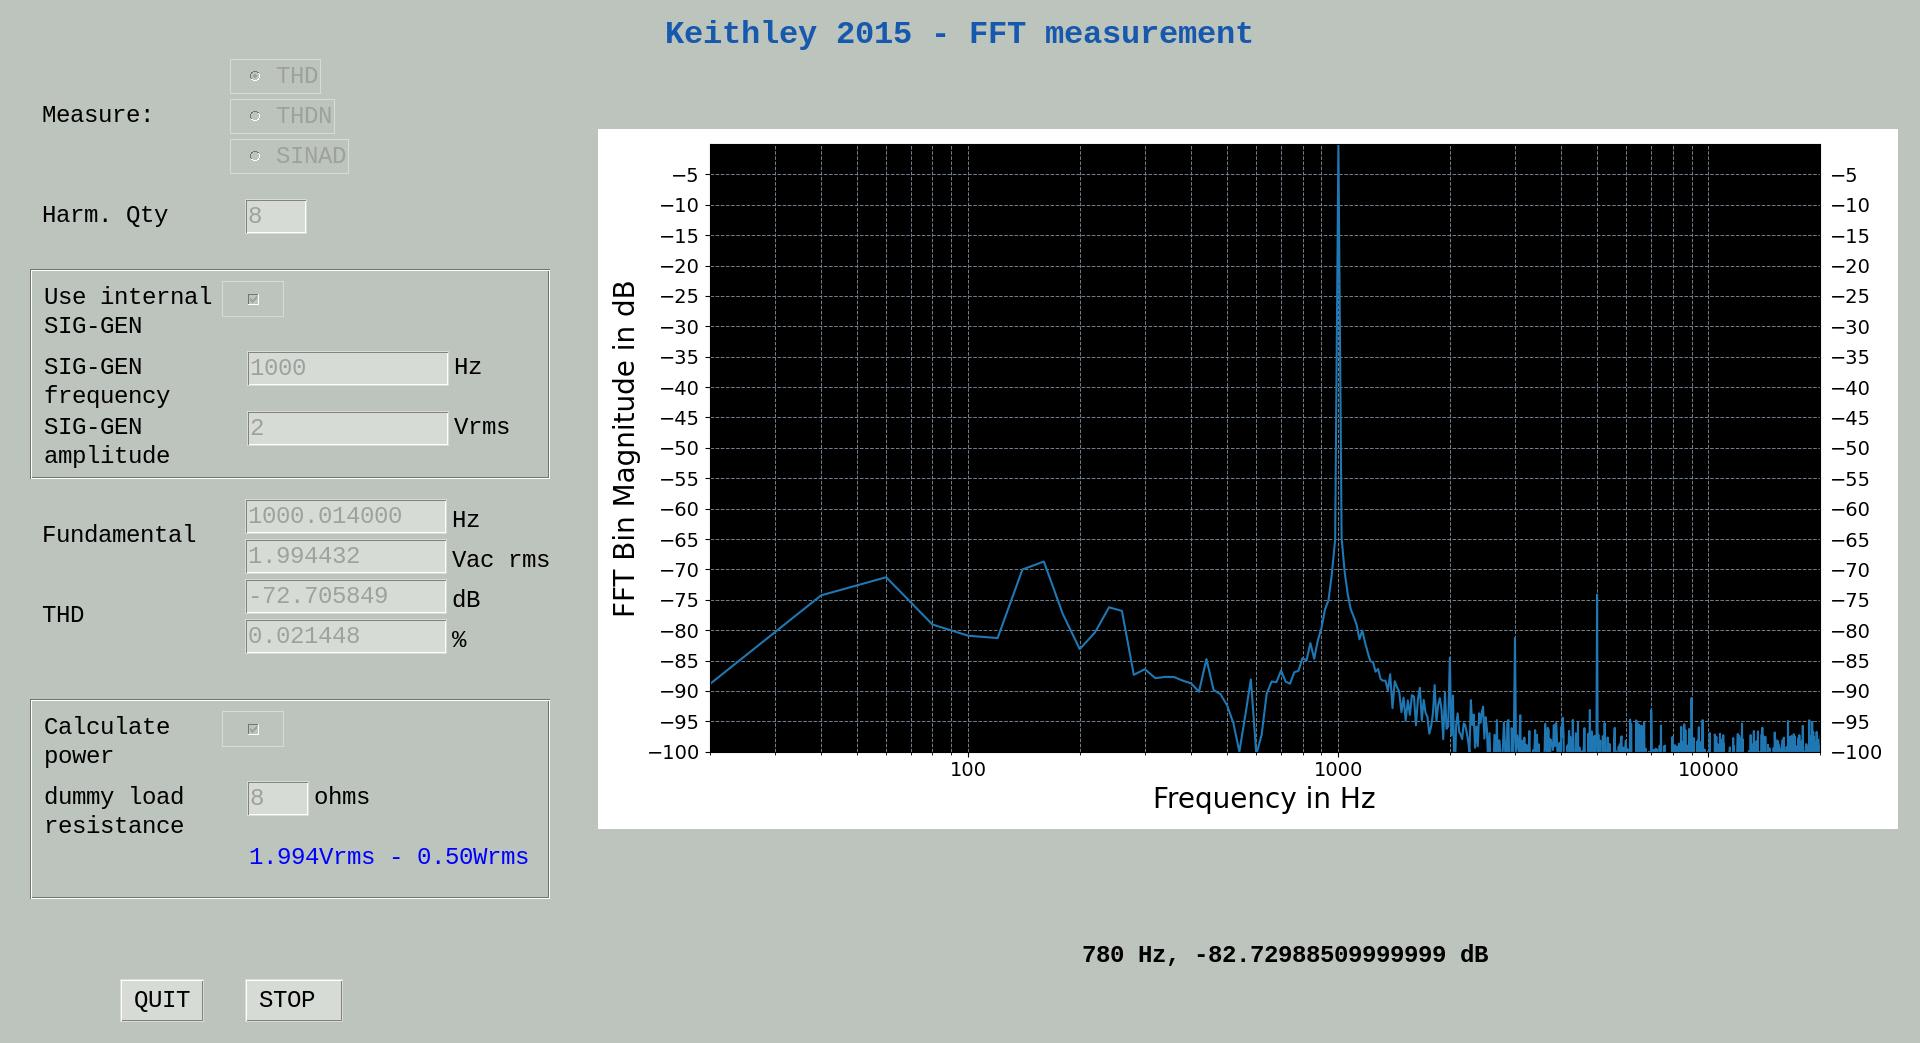
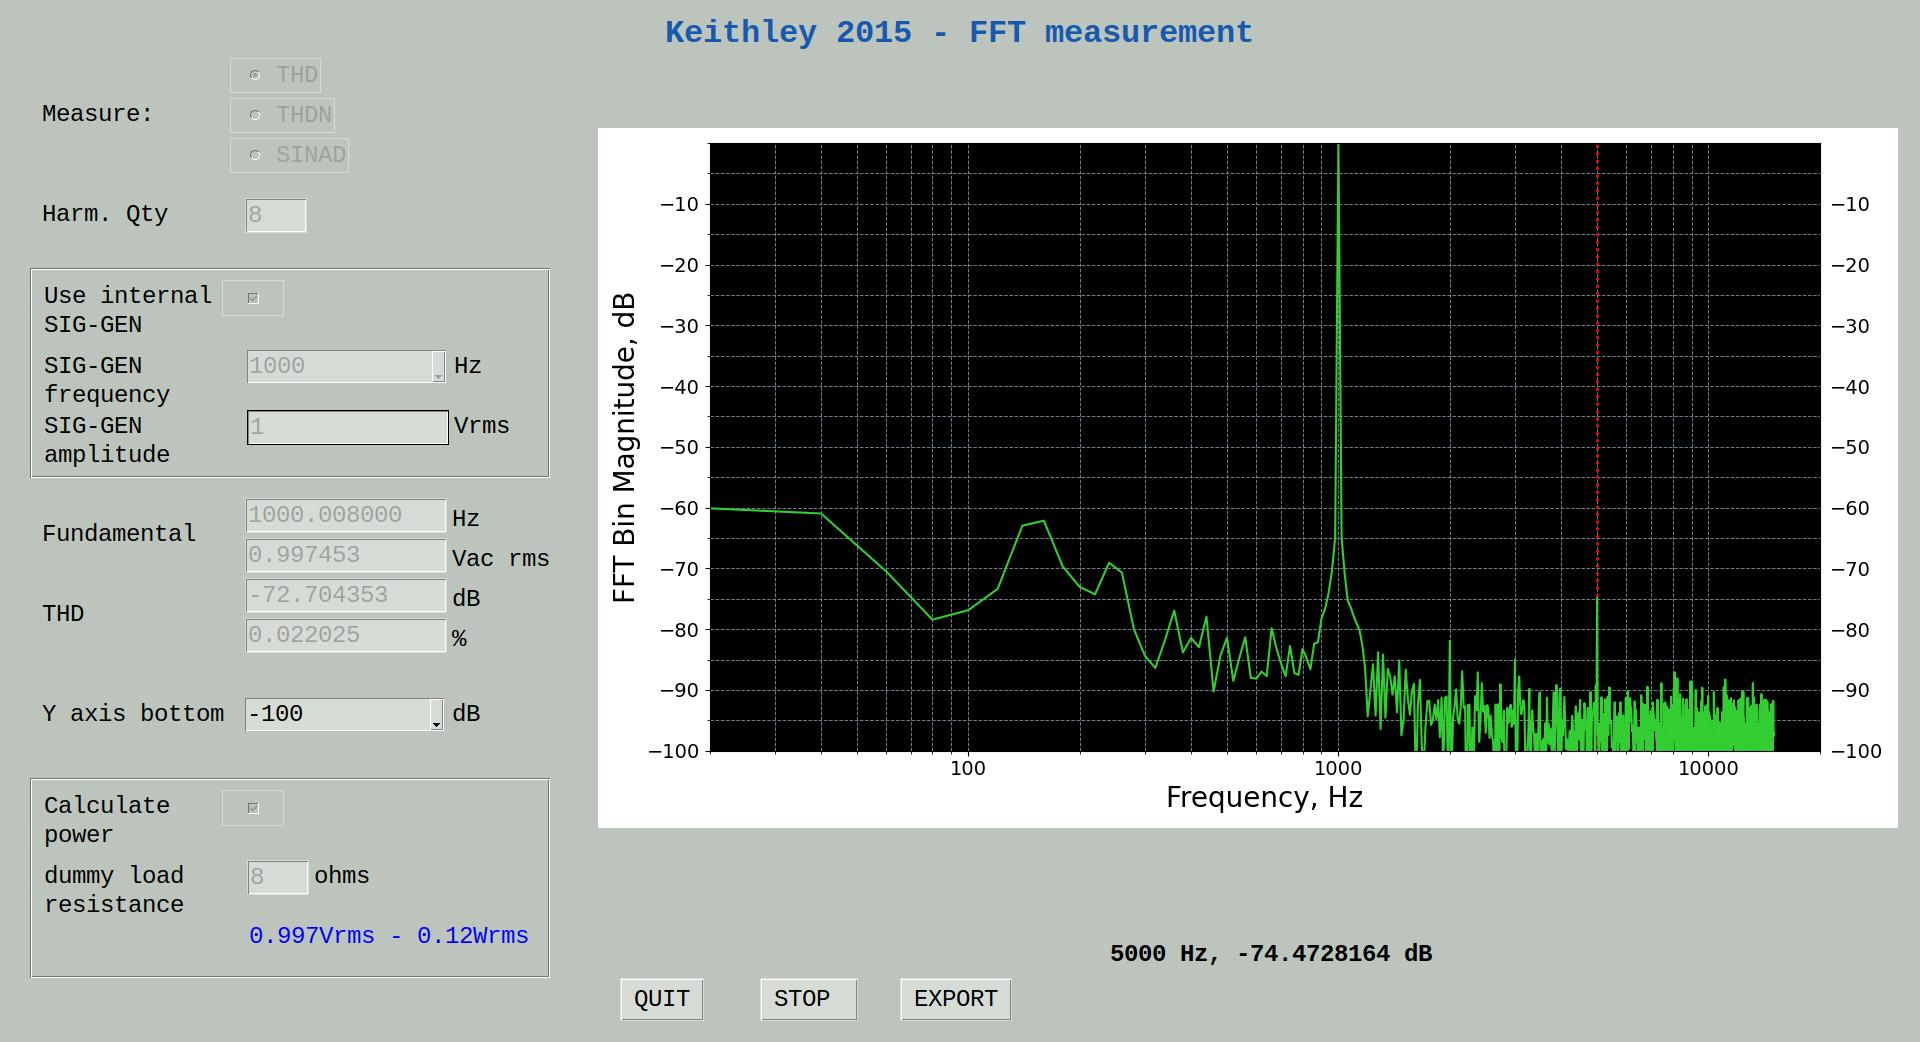
FFT cursor

diff --git a/fft.py b/fft.py
@@ -31,8 +31,8 @@ my RS232 times are:
 """
 
 # Some settings
-SIM = 1 # do not interact with equipment, just sim data
-DEBUG = 1 # print debug data on terminal
+SIM = 0 # do not interact with equipment, just sim data
+DEBUG = 0 # print debug data on terminal
 DISPLAY = 0 # display on or off
 UPDATE_INTERVAL= 1 # only used on sim.
 
@@ -87,6 +87,9 @@ class mclass:
         # FFT data for plot
         self.x1 = []
         self.y1 = []
+        if SIM:
+            self.x1 = [20, 50, 100, 200, 500, 900, 1000, 1060, 1080, 2000, 5000, 7500, 10000, 20000]
+            self.y1 = [-80, -70, -60, -82, -56, -75, 0, -70, -65, -70, -85, -82, -92, -75]
 
         #setup UI
         self.window['bg'] = 'silver'
@@ -207,10 +210,12 @@ class mclass:
         self.but_export = Button(window, text="EXPORT", command=self.export, font=('Courier New', 18))
         self.but_export.place(x=900, y=980)
 
-        # harmonic details upon click
+        # label for cursor location
         self.str_harm_details = StringVar()
         self.lbl_harm_details = Label(window, textvariable=self.str_harm_details, font=('Courier New', 18, 'bold'), background=self.window['bg'])
         self.lbl_harm_details.place(x = 1080, y = 940)
+        self.vline = None
+        self.plotline = None
 
         #focus
         self.etr_harm_qty.icursor(1)
@@ -378,8 +383,6 @@ class mclass:
             self.str_perc.set(new_textperc)
             self.fundamental_vrms = float(new_textVac)
             self.fundamental_freq = new_textHz
-            self.x1 = [20, 50, 100, 200, 500, 900, 1000, 1080, 2000, 5000, 10000, 20000]
-            self.y1 = [-80, -70, -60, -82, -56, -75, 0, -70, -70, -85, -92, -75]
         else:
 
             self.setup_thd_measurement()
@@ -538,8 +541,9 @@ class mclass:
         Tk().quit()
 
     def change_state(self):
-        while (self.avoid_exit):
-            self.fig.canvas.draw()
+        #while (self.avoid_exit):
+        #    self.fig.canvas.draw_idle()
+            #self.fig.canvas.draw()
 
         if self.running == True:
             if not SIM and self.chk_SIGGEN_var.get() == 1:
@@ -554,7 +558,6 @@ class mclass:
             self.rad_thd.config(state = 'normal')
             self.rad_thdn.config(state = 'normal')
             self.rad_sinad.config(state = 'normal')
-            #self.etr_SIGGEN_freq.config(state = 'normal')
             self.cmb_SIGGEN_freq.config(state = 'readonly')
             self.etr_SIGGEN_amp.config(state = 'normal')
             self.etr_resistance.config(state = 'normal')
@@ -571,13 +574,13 @@ class mclass:
             self.chk_SIGGEN.config(state = 'disabled')
             self.chk_power.config(state = 'disabled')
             self.rad_thd.config(state = 'disabled')
-            #self.etr_SIGGEN_freq.config(state = 'disabled')
             self.cmb_SIGGEN_freq.config(state = 'disabled')
             self.etr_SIGGEN_amp.config(state = 'disabled')
             self.rad_thdn.config(state = 'disabled')
             self.rad_sinad.config(state = 'disabled')
             self.etr_resistance.config(state = 'disabled')
             self.replot_thread()
+            self.measure_thread()
 
     def print_details(self, event):
         if not len(self.x1): return
@@ -588,11 +591,32 @@ class mclass:
             #y = format(event.ydata, '.2f')
 
             #show closest value of data according to cursor position
-            x = min(self.x1, key=lambda x:abs(x-event.xdata))
-            x_pos = self.x1.index(x)
+            xval = min(self.x1, key=lambda xval:abs(xval-event.xdata))
+            x_pos = self.x1.index(xval)
             y = self.y1[x_pos]
 
-            self.str_harm_details.set(str(x).rjust(6, " ") + " Hz" + ', ' + str(y).rjust(4, " ") + " dB")
+            self.str_harm_details.set(str(xval).rjust(6, " ") + " Hz" + ', ' + str(y).rjust(4, " ") + " dB")
+
+            ax = self.fig.get_axes()[0]
+
+            if self.vline is not None:
+                self.vline.remove()
+
+            self.vline = ax.axvline(x=xval, color='red', ls=':', lw=2)
+
+            #try:
+                #self.fig.canvas.draw_idle()
+            #    self.fig.canvas.draw()
+            #    self.fig.canvas.flush_events()
+            #except:
+            #    time.sleep(1)
+
+            #window.after(500, self.fig.canvas.draw())
+            #ax.figure.canvas.draw()
+            #fig = plt.figure()
+            #fig.canvas.flush_events()
+            #plt.pause(0.000000000001)
+            #self.fig.canvas.draw()
 
     def plot(self):
         self.fig, ax = plt.subplots(figsize=(13, 7))
@@ -601,7 +625,11 @@ class mclass:
         ax.set_xlabel('Frequency, Hz', fontsize=20, loc='center')
         ax.set_xticks([20,50,100,200,500,1000,2000,5000,10000,20000], ["20", "50", "100", "200", "500", "1K", "2K", "5K", "10K", "20K"])
         ax.set_xlim([20, 20000])
-        ax.semilogx(self.x1, self.y1, '-', color='limegreen')
+
+        fig = plt.figure()
+        fig.canvas.draw()
+        self.plotdata = ax.semilogx(self.x1, self.y1, '-', color='limegreen')
+        self.plotline = ax.lines[len(ax.lines)-1]
 
         ax.set_facecolor('xkcd:black')
         ax.grid(which="both", axis='both', color='slategray', linestyle='--', linewidth=0.7)
@@ -617,6 +645,7 @@ class mclass:
         self.plot_packed = 1
         canvas.mpl_connect('motion_notify_event', self.print_details)
         canvas.draw()
+        canvas.flush_events()
 
     def replot(self):
         #if SIM:
@@ -624,16 +653,30 @@ class mclass:
             #end of data sim
 
         #now replot
-        self.fig.tight_layout()
+        try:
+            self.fig.tight_layout()
+        except:
+            pass
         ax = self.fig.get_axes()[0]
-        ax.clear()         # clear axes from previous plot !!!!
-        ax.set_ylabel('FFT Bin Magnitude, dB', fontsize=20, loc='center')
-        ax.set_xlabel('Frequency, Hz', fontsize=20, loc='center')
-        ax.set_xticks([20,50,100,200,500,1000,2000,5000,10000,20000], ["20", "50", "100", "200", "500", "1K", "2K", "5K", "10K", "20K"])
-        ax.set_xlim([20, 20000])
+
+        #ax.lines.pop(0) #remove first line from graph insted of clearing
+        if self.plotline is not None:
+            try:
+                ax.lines.pop(ax.lines.index(self.plotline))
+            except:
+                print(ax.lines.index(self.plotline))
+                pass
+
+        #for line in ax.lines: ax.lines.pop(0)
+        #ax.clear()         # clear axes from previous plot !!!!
+        #ax.set_ylabel('FFT Bin Magnitude, dB', fontsize=20, loc='center')
+        #ax.set_xlabel('Frequency, Hz', fontsize=20, loc='center')
+        #ax.set_xticks([20,50,100,200,500,1000,2000,5000,10000,20000], ["20", "50", "100", "200", "500", "1K", "2K", "5K", "10K", "20K"])
+        #ax.set_xlim([20, 20000])
         ax.semilogx(self.x1, self.y1, '-', color='limegreen')
+        self.plotline = ax.lines[len(ax.lines)-1]
         #ax.grid(color = 'slategray', linestyle = '--', linewidth = 0.5, which='minor')
-        ax.set_facecolor('xkcd:black')
+        #ax.set_facecolor('xkcd:black')
         ax.grid(which="both", axis='both', color='slategray', linestyle='--', linewidth=0.7)
         ax.yaxis.set_ticks(np.arange(int(self.str_ybottom.get()), 0, 10), fontsize=20) # la escala del eje Y cada 0.5 entre 0 y 5
         ax.tick_params(labeltop=False, labelright=True,  labelsize=14)
@@ -641,8 +684,16 @@ class mclass:
         ax.set_ylim([int(self.str_ybottom.get()), 0])
         ax.yaxis.set_minor_locator(AutoMinorLocator(2))
         ax.xaxis.set_major_formatter(ScalarFormatter())
-        self.fig.canvas.mpl_connect('motion_notify_event', self.print_details)
+
+        #fig = plt.figure()
+        #fig.canvas.mpl_connect('motion_notify_event', self.print_details)
+        #fig.canvas.draw()
+        #fig.canvas.flush_events()
         self.fig.canvas.draw()
+        #self.fig.canvas.draw()
+        #window.after(50, ax.figure.canvas.draw())
+        ax.figure.canvas.flush_events()
+        #ax.figure.canvas.draw_idle()
 
     def export(self):
         if not len(self.x1):
@@ -652,21 +703,29 @@ class mclass:
             pd.DataFrame(dict).to_csv('fft.csv', index=False)
             messagebox.showinfo("Export", "Export completed - %s" % 'fft.csv')
 
+    def _measure_thread(self):
+        while self.running:
+            if DEBUG: print("calculate power");
+            self.measure_vca()
+            if DEBUG: print("remeasuring THD");
+            self.measure_thd() #and get fft bins
+
     def _replot_thread(self):
         if DEBUG: print("THD replot thread running");
 
         while self.running:
-            if DEBUG: print("calculate power");
-            self.measure_vca()
-
-            if DEBUG: print("remeasuring THD");
-            self.measure_thd() #and get fft bins
+            #if DEBUG: print("calculate power");
+            #self.measure_vca()
+            #if DEBUG: print("remeasuring THD");
+            #self.measure_thd() #and get fft bins
 
             if DEBUG: print("re plotting")
             self.replot()
 
             if SIM:
-                time.sleep(UPDATE_INTERVAL)
+                 #time.sleep(UPDATE_INTERVAL)
+                 self.y1[2]-= 2
+                 if self.y1[2] <= -90: self.y1[2]-= -75
 
         if DEBUG: print("END running THD replot thread");
 
@@ -674,7 +733,12 @@ class mclass:
         self.thread = threading.Thread(target=self._replot_thread)
         self.thread.start()
 
+    def measure_thread(self):
+        self.mthread = threading.Thread(target=self._measure_thread)
+        self.mthread.start()
+
 window = Tk()
 start = mclass(window)
 start.replot_thread()
+start.measure_thread()
 window.mainloop()

diff --git a/thd_vs_freq.py b/thd_vs_freq.py
@@ -136,7 +136,7 @@ class mclass:
     def start_serial(self):
         try:
             self.ser.port='/dev/ttyUSB0'
-            self.ser.baudrate=9600
+            self.ser.baudrate=19200
             self.ser.timeout=0
             self.ser.parity=serial.PARITY_NONE
             self.ser.stopbits=serial.STOPBITS_ONE
@@ -394,7 +394,7 @@ class mclass:
         #ax.set_xticks([20,50,100,200,500,1000,2000,5000,10000,20000], ["20", "50", "100", "200", "500", "1K", "2K", "5K", "10K", "20K"])
         #ax.set_xlim([20, 20000])
         ax.yaxis.set_ticks(np.arange(0, float(self.str_maxy.get()), 0.5), fontsize=20, visible=True) # la escala del eje Y cada 0.5 entre 0 y 5
-        ax.yaxis.set_minor_locator(AutoMinorLocator())
+        ax.yaxis.set_minor_locator(AutoMinorLocator(2))
         #ax.tick_params(axis='y', which='minor', length=6, width='1', left='true', right='true')
         ax.set_ylim([0, float(self.str_maxy.get())])
 
@@ -429,7 +429,7 @@ class mclass:
         ax.set_xticks([20,50,100,200,500,1000,2000,5000,10000,20000], ["20", "50", "100", "200", "500", "1K", "2K", "5K", "10K", "20K"])
         ax.set_xlim([20, 20000])
         ax.yaxis.set_ticks(np.arange(0, float(self.str_maxy.get()), 0.5), fontsize=20) # la escala del eje Y cada 0.5 entre 0 y 5
-        ax.yaxis.set_minor_locator(AutoMinorLocator())
+        ax.yaxis.set_minor_locator(AutoMinorLocator(2))
         ax.tick_params(axis='y', which='minor', length=6, width='1', left='true', right='true')
         ax.set_ylim([0, float(self.str_maxy.get())])
         ax.plot(self.measurement['freq'], self.measurement['thd'], color=self.colors[0])

diff --git a/freq_resp.py b/freq_resp.py
@@ -10,7 +10,7 @@
 #test case in which you change points per decade or miny/maxy between two different plots
 
 # some config
-SIM = 0
+SIM = 1
 DEBUG = 0
 DISPLAY = 1 # display on or off
 DEFAULT_POINTS_PER_DECADE = 3  #4 means for instance that between 20hz and 30hz you will have 2 other points: [22.89 Hz and 26.21 Hz]
@@ -141,7 +141,7 @@ class mclass:
     def start_serial(self):
         try:
             self.ser.port='/dev/ttyUSB0'
-            self.ser.baudrate=9600
+            self.ser.baudrate=19200
             self.ser.timeout=0
             self.ser.parity=serial.PARITY_NONE
             self.ser.stopbits=serial.STOPBITS_ONE

diff --git a/thd.py b/thd.py
@@ -165,7 +165,7 @@ class mclass:
     def start_serial(self):
         try:
             self.ser.port='/dev/ttyUSB0'
-            self.ser.baudrate=9600
+            self.ser.baudrate=19200
             self.ser.timeout=0
             self.ser.parity=serial.PARITY_NONE
             self.ser.stopbits=serial.STOPBITS_ONE

diff --git a/thd_vs_power.py b/thd_vs_power.py
@@ -170,7 +170,7 @@ class mclass:
     def start_serial(self):
         try:
             self.ser.port='/dev/ttyUSB0'
-            self.ser.baudrate=9600
+            self.ser.baudrate=19200
             self.ser.timeout=0
             self.ser.parity=serial.PARITY_NONE
             self.ser.stopbits=serial.STOPBITS_ONE

diff --git a/logger.py b/logger.py
@@ -83,7 +83,7 @@ class mclass:
     def start_serial(self):
         try:
             self.ser.port='/dev/ttyUSB0'
-            self.ser.baudrate=9600
+            self.ser.baudrate=19200
             self.ser.timeout=0
             self.ser.parity=serial.PARITY_NONE
             self.ser.stopbits=serial.STOPBITS_ONE
